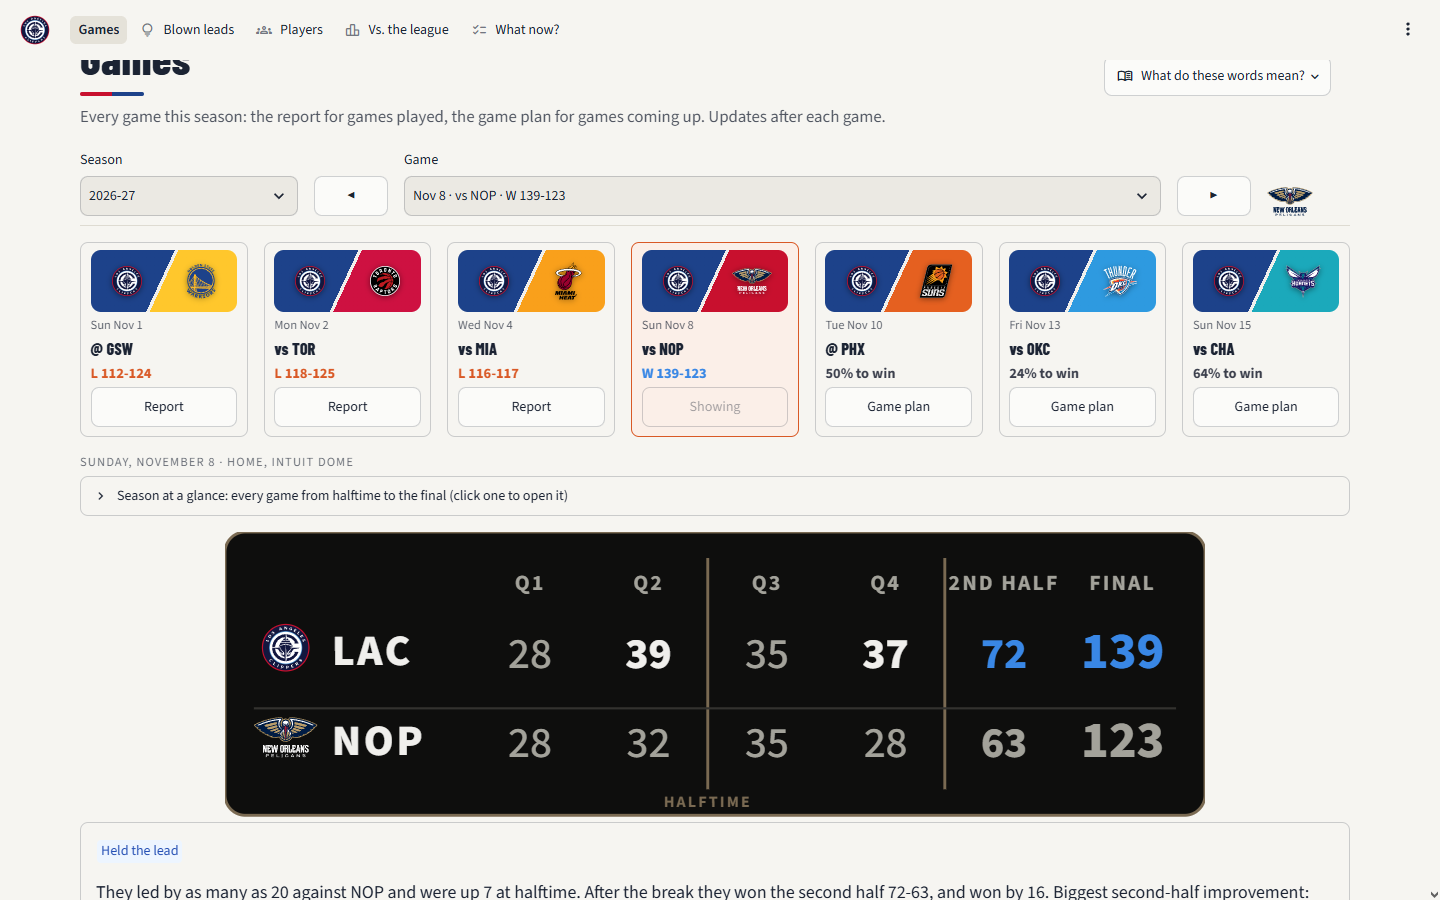
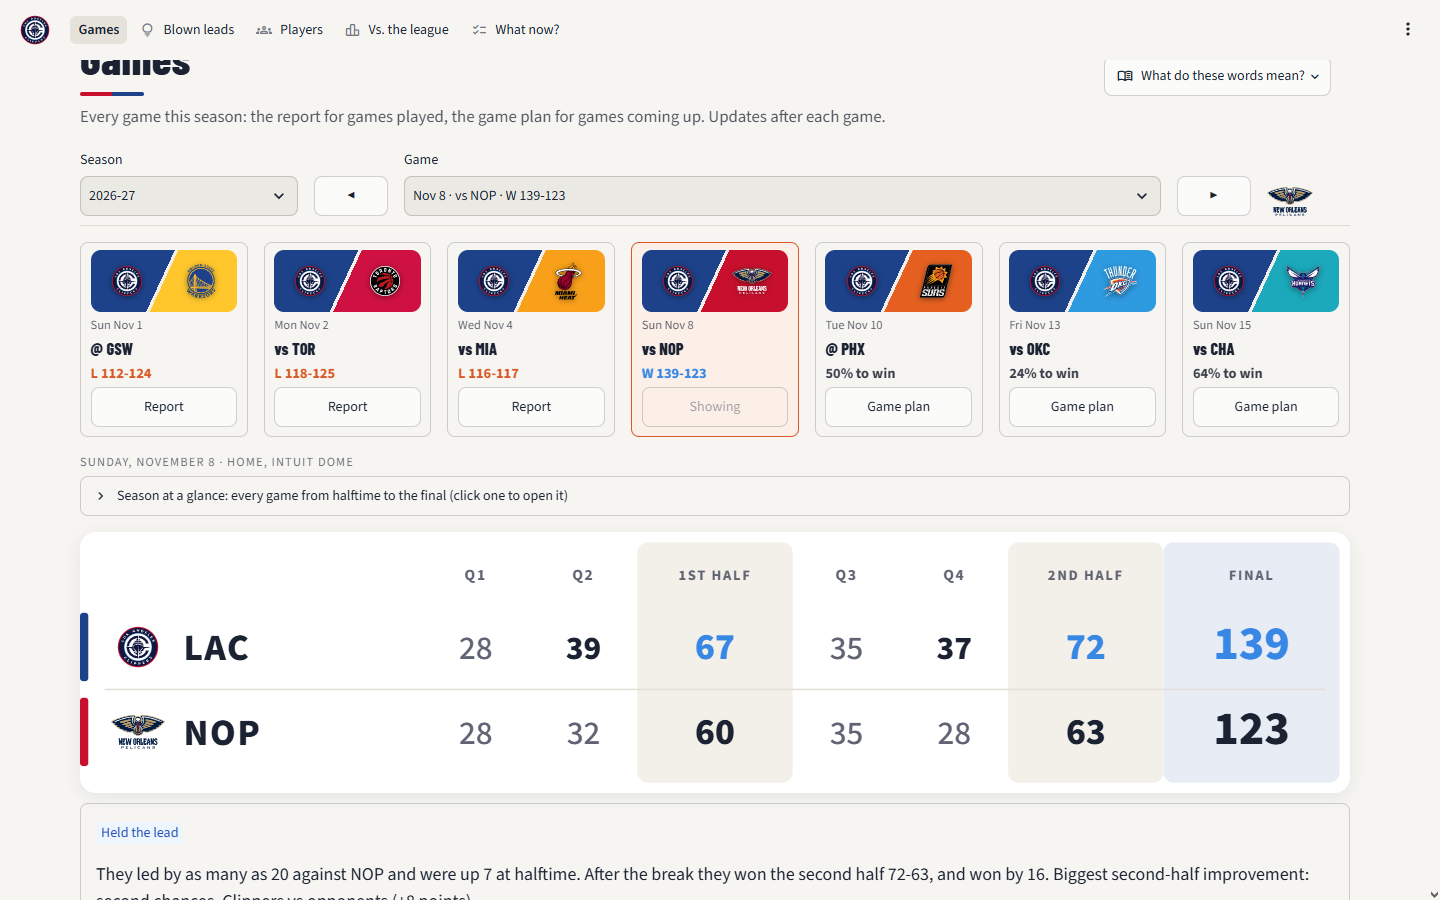
Put every chart and drawing on a white panel
On the off-white page, each chart and drawing sits on its own white card with
a soft shadow (on the chart's wrapper, so charts size to the inside of the
panel). Charts get transparent backgrounds so the panel shows through. The
scoreboard runs the full width in the game report. README screenshot updated.

Changed region(s): [[0.0312, 0.5911, 0.9062, 0.9333], [0.0625, 0.9022, 0.9062, 1.0]]

diff --git a/dashboard/app.py b/dashboard/app.py
@@ -35,7 +35,7 @@ FOCUS = "#d95926"
 INK_MARK = "#3b3f4c"
 LIGHT = "#86847e"  # 3.4:1 on the light page
 MUTED_BAR = "#7f7d77"  # 3.8:1 on the light page
-BG = "#f6f5f1"  # matches .streamlit/config.toml backgroundColor
+BG = "#ffffff"  # the white panel every chart sits on (marker outlines match it)
 PLOTLY_CONFIG = {"displayModeBar": False}
 TONE_BADGE = {"yes": ("orange", "The answer"), "partly": ("violet", "Part of it"), "no": ("gray", "Not really")}
 
@@ -184,6 +184,13 @@ h1, .hero {color: #13213f}
 .hc-stats b {font-family: 'Barlow Condensed', sans-serif; font-size: 2rem; display: block; line-height: 1}
 .hc-stats span {font-size: .8rem; opacity: .7; line-height: 1.2; display: block; margin-top: .2rem}
 .hc-up {color: #d95926} .hc-down {color: #3987e5}
+/* ---- white panels on the off-white page: every chart and drawing sits on its own card */
+/* the panel goes on the chart's wrapper, so the chart sizes itself to the inside of the panel */
+[data-testid="stElementContainer"]:has(.stPlotlyChart) {background: #ffffff; border-radius: 16px;
+  padding: .7rem .9rem .35rem .9rem; box-shadow: 0 4px 16px rgba(19,33,63,.07)}
+.gfx {background: #ffffff; border-radius: 16px; padding: 1rem 1.2rem; box-shadow: 0 4px 16px rgba(19,33,63,.07);
+      margin-bottom: .6rem}
+.gfx.bare {background: none; box-shadow: none; padding: 0}
 /* ---- small motion: cards rise in, mini-charts draw left to right, cards lift on hover */
 @keyframes rise {from {opacity: 0; transform: translateY(8px)} to {opacity: 1; transform: none}}
 @keyframes draw {from {clip-path: inset(0 100% 0 0)} to {clip-path: inset(0 0 0 0)}}
@@ -241,6 +248,7 @@ def load(stamp: tuple[float, int]) -> D.DashboardData:
 def show(fig: go.Figure, height: int, key: str | None = None, select: bool = False, **layout):
     """Render a plotly figure; with ``select=True`` clicks on points rerun the app and are returned."""
     settings_ = dict(height=height, margin=dict(l=8, r=8, t=36, b=8), hovermode="closest",
+                     paper_bgcolor="rgba(0,0,0,0)", plot_bgcolor="rgba(0,0,0,0)",  # the white panel shows
                      legend=dict(orientation="h", yanchor="bottom", y=1.0, x=0, title=None, font=dict(size=13)),
                      hoverlabel=dict(align="left", font=dict(size=13)), font=dict(size=13),
                      barcornerradius=4, clickmode="event+select" if select else None)
@@ -461,7 +469,7 @@ def page_answer() -> None:
         fig.update_layout(barmode="group", bargap=0.3, bargroupgap=0.08)
         fig.update_yaxes(autorange="reversed")
         fig.update_xaxes(title="Points a game after halftime  (← costs them · helps them →)",
-                         range=[min(lo, 0) * 1.45 - 0.8, max(hi, 0) * 1.45 + 0.8], zeroline=False)
+                         range=[min(lo, 0) * 1.45 - 0.8, max(hi, 0) * 1.45 + 1.8], zeroline=False)
         show(fig, 110 + 62 * len(ordered))
         if helps and hl:
             st.caption(f"The ones right of zero hide part of the drop: without them, second halves would be "
@@ -1421,8 +1429,14 @@ def page_replay() -> None:
     lvs = R.levers(factors, lines, sbox, game_def, season_def, game_units) if len(factors) else []
 
     # ---- the result
-    picture(G.scoreboard("LAC", opp, team_q, opp_q, row["final_margin"] > 0, team_logo=D.logo_url(settings.team_id),
-                         opp_logo=D.logo_url(g_all.loc[gid, "opponent_id"])), max_width="980px")
+    opp_id_ = int(g_all.loc[gid, "opponent_id"])
+    # the scoreboard is its own white card, so it skips the panel padding and runs the full width
+    st.markdown(G.scoreboard("LAC", opp, team_q, opp_q, row["final_margin"] > 0,
+                             team_logo=D.logo_url(settings.team_id, dark=False),
+                             opp_logo=D.logo_url(opp_id_, dark=False), team_color="#1d428a",
+                             opp_color=D.team_color(opp_id_)).replace('<div class="gfx">',
+                                                                      '<div class="gfx" style="padding:0">', 1),
+                unsafe_allow_html=True)
     with st.container(border=True):
         tag = S.LEAD_TAG.get(row["lead_class"], "")
         if tag:
